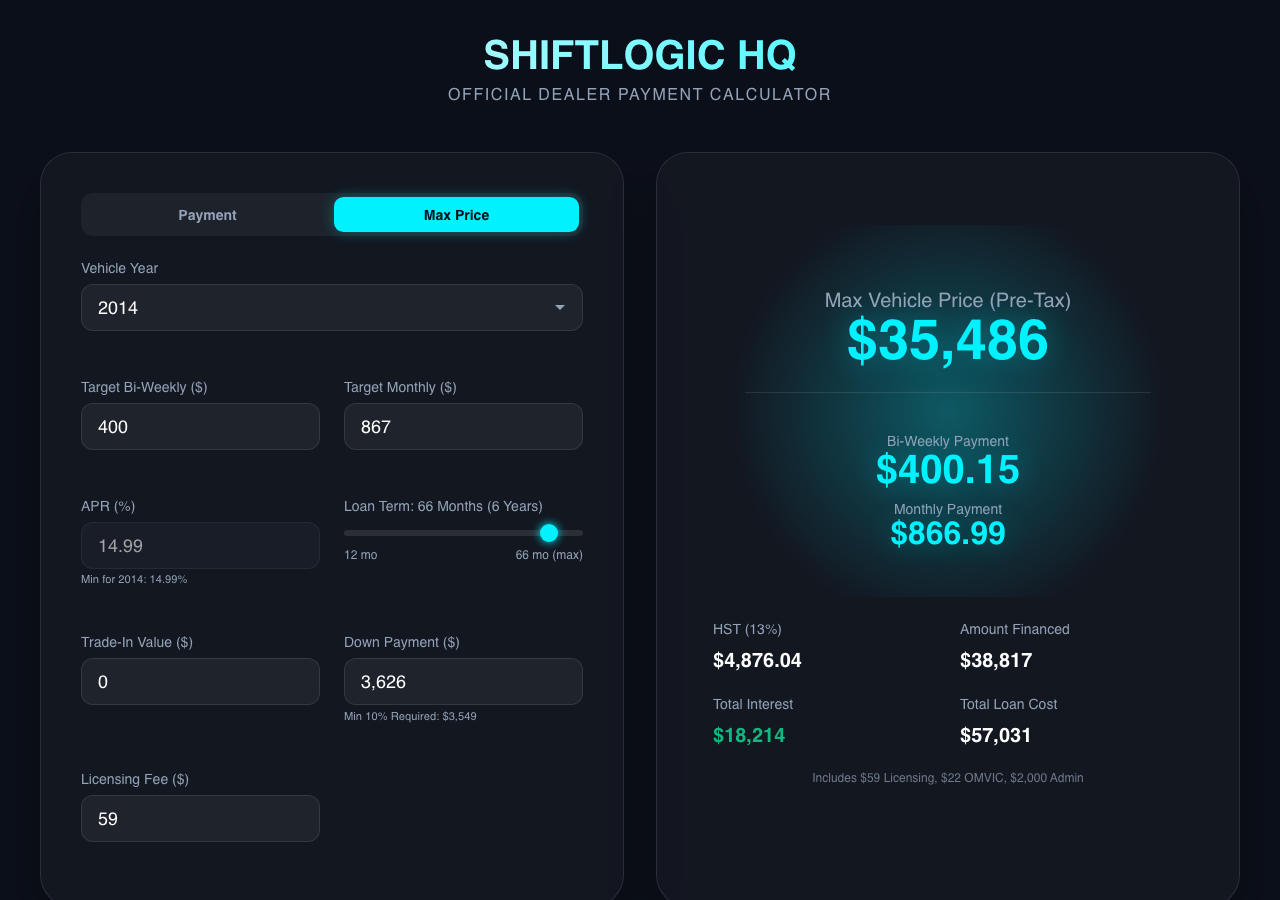
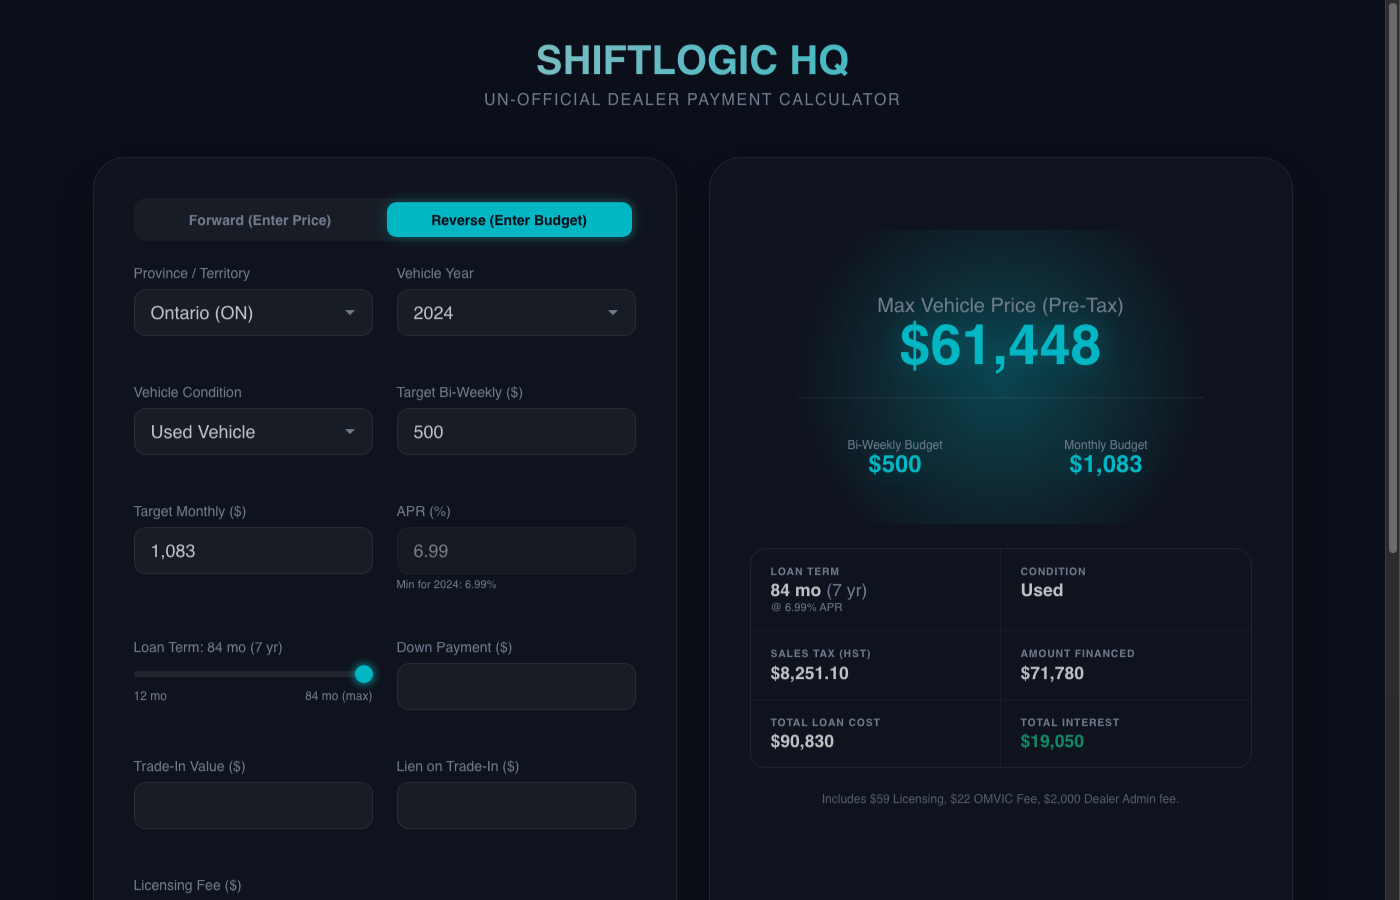
docs: update README with new features and refresh screenshots
README now covers vehicle condition, Federal Luxury Tax, negative equity
cap, BC progressive PST, province tax table, and binary search rationale.
Screenshots re-captured with current UI. Subtitle changed to Un-Official.

diff --git a/src/App.tsx b/src/App.tsx
@@ -51,7 +51,7 @@ const App: React.FC = () => {
         <h1>
           SHIFT<span style={{ color: 'var(--accent-color)' }}>LOGIC</span> HQ
         </h1>
-        <p className="subtitle">Official Dealer Payment Calculator</p>
+        <p className="subtitle">Un-Official Dealer Payment Calculator</p>
       </header>
 
       {adjustmentMessage && (

diff --git a/README.md b/README.md
@@ -1,6 +1,6 @@
 # ShiftLogic HQ — Auto Loan Calculator
 
-A dual-mode Canadian auto loan payment calculator built with React, TypeScript, and Vite. Available to users across Canada, it automatically calculates bi-weekly and monthly payments using province/territory-specific taxes, registration fees, and lender rules. Reverse mode helps you find the maximum affordable vehicle price.
+A dual-mode Canadian auto loan payment calculator built with React, TypeScript, and Vite. Calculates bi-weekly and monthly payments using province/territory-specific taxes, registration fees, and lender rules. Reverse mode finds the maximum affordable vehicle price from a target payment.
 
 **[Live Demo](https://auto-loan-calculator.pages.dev)**
 
@@ -10,18 +10,24 @@ A dual-mode Canadian auto loan payment calculator built with React, TypeScript, 
 
 ## Overview
 
-This calculator is **available to all users across Canada** and automatically adjusts calculations based on your province or territory of residence. It accounts for:
-- **Provincial/Territorial Sales Taxes**: GST, HST, PST, QST, and combined rates
-- **Registration Fees**: Automatically calculated based on province/territory
-- **Lender Rules**: Year-based APR, term, and down payment requirements vary by region
+This calculator works **across all Canadian provinces and territories** and automatically adjusts for:
+
+- **Sales Taxes**: HST (ON, NB, NS, PE, NL), GST+PST (QC, BC, SK, MB), or GST-only (AB, YT, NT, NU)
+- **BC Progressive PST**: 7%–20% across 5 price tiers
+- **Registration & Licensing Fees**: Province-specific defaults, manually adjustable
+- **Regulatory Fees**: OMVIC ($22 ON), AMVIC ($10 AB), VSA Levy ($10 BC)
+- **Dealer Admin Fee**: $2,000 applied in Ontario only
+- **Federal Luxury Tax**: Applies to new vehicles over $100,000 (lesser of 10% of price or 20% of excess)
+- **Negative Equity Cap**: Lien minus trade-in capped at 40% of vehicle price — excess added to minimum down payment
+- **Year-Based Lending Rules**: APR, max term, and down payment floor determined by vehicle year
 
 ## Modes
 
 ### Payment Mode (Forward)
-Enter a vehicle price and loan details to calculate bi-weekly and monthly payments, taxes, total interest, and a full amortization schedule. Calculations automatically adjust based on your selected province or territory.
+Enter a vehicle price and loan details to calculate bi-weekly and monthly payments, taxes, total interest, and a full amortization schedule. Select province, vehicle year, and condition (new/used) — calculations automatically adjust.
 
 ### Max Price Mode (Reverse)
-Enter a target bi-weekly or monthly payment to find the maximum vehicle price you can afford. Changing the vehicle year automatically adjusts the APR, term, and down payment minimum to match regional lender rules.
+Enter a target bi-weekly or monthly payment to find the maximum vehicle price you can afford. The binary search algorithm correctly handles non-linear BC PST rates and Federal Luxury Tax. Changing the vehicle year auto-adjusts APR, term, and down payment minimums.
 
 ## Screenshots
 
@@ -33,7 +39,7 @@ Enter a target bi-weekly or monthly payment to find the maximum vehicle price yo
 
 ## Provincial & Territorial Lending Rules
 
-Vehicle year determines the maximum loan term and minimum APR. Rules vary by province/territory:
+Vehicle year determines the maximum loan term, minimum APR, and down payment floor:
 
 | Vehicle Year | Max Term | Min APR | Min Down Payment | Bank Financeable |
 |---|---|---|---|---|
@@ -45,38 +51,55 @@ Vehicle year determines the maximum loan term and minimum APR. Rules vary by pro
 
 ## Taxes & Fees (Province/Territory-Specific)
 
-The calculator automatically computes:
-- **Sales Tax**: GST (5%), HST (13-15%), PST (7%), QST (9.975%), or combinations based on your province
-- **Registration & Licensing Fees**: Varies by province/territory
-- **Admin & Processing Fees**: Region-specific charges
+| Province | Code | Tax Type | Rate | Regulating Fee | Licensing |
+|---|---|---|---|---|---|
+| Ontario | ON | HST | 13% | $22 OMVIC | $59 |
+| Quebec | QC | GST + QST | 5% + 9.975% | — | $120 |
+| British Columbia | BC | GST + PST | 5% + 7%–20%¹ | $10 VSA | $150 |
+| Alberta | AB | GST | 5% | $10 AMVIC | $95 |
+| Saskatchewan | SK | GST + PST | 5% + 6% | — | $100 |
+| Manitoba | MB | GST + PST | 5% + 7% | — | $150 |
+| New Brunswick | NB | HST | 15% | — | $100 |
+| Nova Scotia | NS | HST | 15%² | — | $150 |
+| Prince Edward Island | PE | HST | 15% | — | $100 |
+| Newfoundland & Labrador | NL | HST | 15% | — | $180 |
+| Yukon | YT | GST | 5% | — | $100 |
+| Northwest Territories | NT | GST | 5% | — | $100 |
+| Nunavut | NU | GST | 5% | — | $100 |
 
-Trade-in value is applied pre-tax and reduces the taxable amount.
+¹ BC PST is progressive: 7% under $55K, 8% $55K–$56K, 9% $56K–$57K, 10% $57K–$125K, 15% $125K–$150K, 20% over $150K
+² NS HST was 14% before April 2025, now 15%
+
+Trade-in value is applied pre-tax and reduces the taxable amount. Licensing fee syncs to the province default when switching provinces.
 
 ## Features
 
-- **Province/Territory Selector** automatically adjusts taxes and registration fees
-- **Segmented pill toggle** switches between Payment and Max Price modes
-- **Bi-weekly amortization schedule** with period-by-period principal, interest, and balance
-- **Year change notifications** showing auto-adjusted APR, term, and down payment
-- **Dynamic down payment floor** — minimum dollar and percentage displayed, enforced with validation
-- **Thousand separators** on dollar inputs for readability
-- **Linked target payment inputs** — changing bi-weekly auto-calculates monthly and vice versa
-- **Editable loan term slider** in both modes (12-month steps, capped at year-rule maximum)
-- **URL state persistence** — shareable links that restore all inputs including province, mode, and target payments
+- **Province/Territory Selector** — auto-adjusts taxes, fees, and licensing
+- **Vehicle Condition** — new vs used; Federal Luxury Tax applies to new vehicles over $100K
+- **Segmented Pill Toggle** — switches between Payment and Max Price modes
+- **Bi-Weekly Amortization Schedule** — period-by-period principal, interest, and balance
+- **Auto-Adjustment Banner** — shows when year change clamps APR, term, or down payment (auto-dismiss 6s)
+- **Dynamic Down Payment Floor** — minimum dollar and percentage displayed, enforced with validation
+- **Negative Equity Display** — shows financed vs excess amounts when lien exceeds trade-in
+- **Luxury Tax Callout** — highlighted in metrics when applicable (new vehicles only)
+- **Thousand Separators** on dollar inputs for readability
+- **Linked Target Payment Inputs** — changing bi-weekly auto-calculates monthly and vice versa
+- **Editable Loan Term Slider** — 12-month steps, capped at year-rule maximum
+- **URL State Persistence** — shareable links restoring all inputs including province, condition, mode, and target payments
 
 ## Tech Stack
 
 - **React 19** with `useReducer` for state management
-- **TypeScript 6** with strict linting
+- **TypeScript 6** with strict type-checking
 - **Vite 8** for dev server and production builds
-- **Vitest** for unit testing (22 tests)
+- **Vitest 4** for unit testing (37 tests)
 - **Cloudflare Pages** for deployment
 
 ## Development
 
 ```bash
 npm install        # Install dependencies
-npm run dev        # Start dev server (localhost:5173)
+npm run dev        # Start dev server
 npm test           # Run tests (vitest)
 npm run build      # Type-check and production build
 ```
@@ -86,36 +109,21 @@ npm run build      # Type-check and production build
 All inputs sync to the URL for bookmarking and sharing:
 
 ```
-?province=ON&mode=reverse&year=2024&price=45000&trade=0&down=5000&apr=6.99&term=84&licensing=59&targetBiWeekly=500&targetMonthly=1083
+?prov=ON&cond=used&year=2024&price=45000&trade=0&lien=0&down=5000&apr=6.99&term=84&licensing=59&mode=reverse&targetBiWeekly=500&targetMonthly=1083
 ```
 
 Omitting `mode` (or setting it to anything other than `reverse`) defaults to Payment mode.
 
 ## How the Reverse Calculation Works
 
-The reverse calculator solves the standard loan payment formula for principal and works backward through provincial/territorial taxes and fees:
+The reverse calculator uses binary search (30 iterations over a $0–$2M range) to find the maximum vehicle price matching a target payment. Unlike algebraic inversion, this correctly handles:
 
-1. **Loan principal** from target payment: `L = P × ((1+r)ⁿ − 1) / (r(1+r)ⁿ)`
-2. **Taxable amount:** `(L + downPayment − licensingFee) / (1 + taxRate)`
-3. **Max vehicle price:** `taxableAmount + tradeInValue − adminFee − processingFee`
+- **BC Progressive PST** — rate depends on vehicle price (the unknown)
+- **Federal Luxury Tax** — triggers above $100K, changing the tax curve
+- **Negative Equity Cap** — 40% cap creates a floor that varies with price
+- **Year-Based Down Payment** — percentage floor that depends on the unknown price
 
-When a minimum down payment percentage applies (varies by region), a circular dependency arises — the down payment floor depends on the vehicle price, but the vehicle price is the unknown. The solution uses algebraic manipulation to solve for the maximum affordable vehicle price.
-
-## Supported Provinces & Territories
-
-- Alberta (AB)
-- British Columbia (BC)
-- Manitoba (MB)
-- New Brunswick (NB)
-- Newfoundland and Labrador (NL)
-- Northwest Territories (NT)
-- Nova Scotia (NS)
-- Nunavut (NU)
-- Ontario (ON)
-- Prince Edward Island (PE)
-- Quebec (QC)
-- Saskatchewan (SK)
-- Yukon (YT)
+Each iteration runs the full forward calculation, so all taxes, fees, caps, and rules are respected exactly.
 
 ## License
 